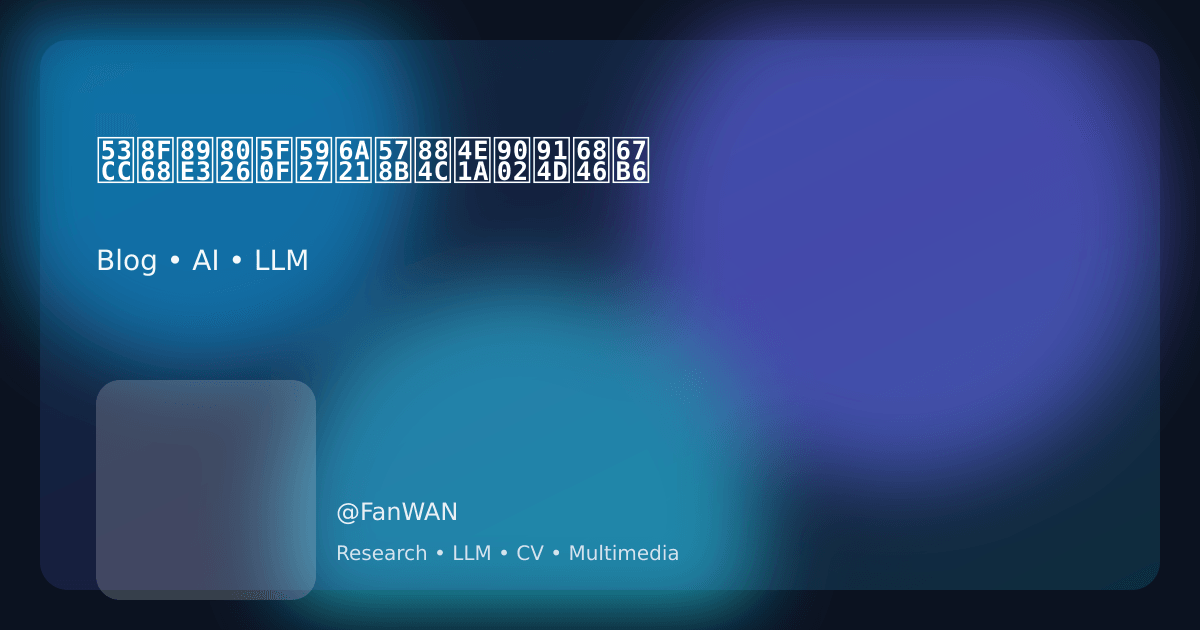
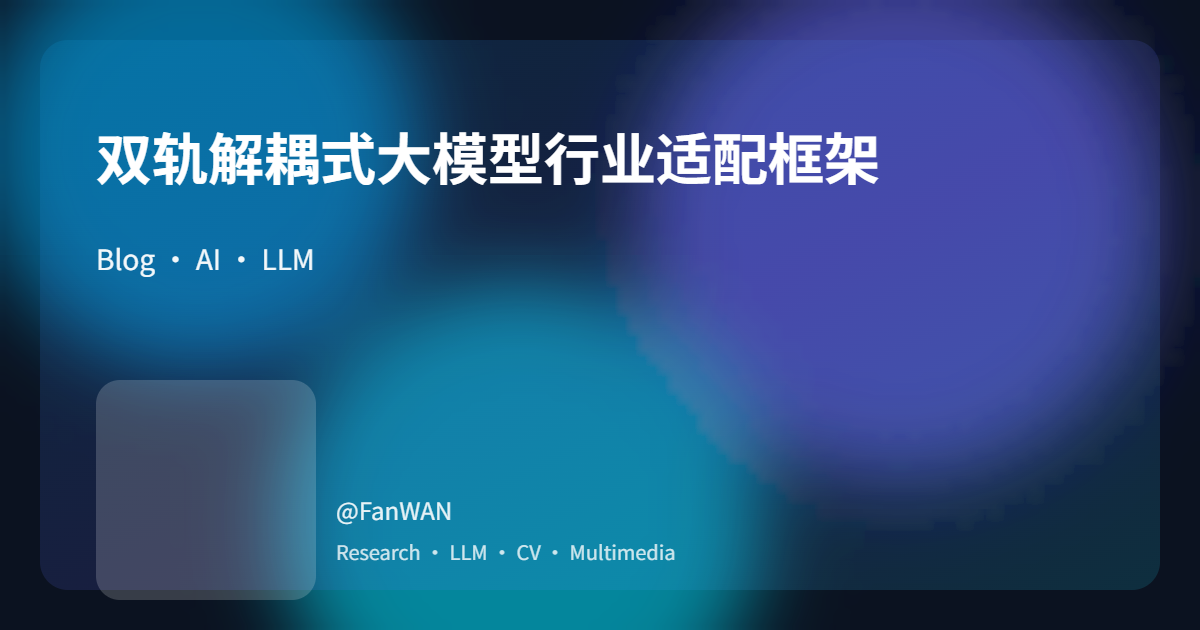
og: prefer PNG covers; add generated DTDA-zh.png; fix rasterize script (puppeteer fallback & windows path)

diff --git a/blog/DTDA.html b/blog/DTDA.html
@@ -16,17 +16,17 @@
   <meta property="og:title" content="双轨解耦式大模型行业适配框架">
   <meta property="og:description" content="聚焦大模型在高合规行业的适配问题，提出 “双轨解耦式行业适配” 框架。">
   <meta property="og:url" content="https://fanwan-ai.github.io/blog/DTDA.html">
-  <meta property="og:image" content="https://fanwan-ai.github.io/assets/blog/DTDA-zh.svg">
+  <meta property="og:image" content="https://fanwan-ai.github.io/assets/blog/DTDA-zh.png">
   <meta property="og:image:width" content="1200">
   <meta property="og:image:height" content="630">
-  <meta property="og:image:secure_url" content="https://fanwan-ai.github.io/assets/blog/DTDA-zh.svg">
-  <meta property="og:image:type" content="image/svg+xml">
-  <link rel="image_src" href="https://fanwan-ai.github.io/assets/blog/DTDA-zh.svg">
-  <meta itemprop="image" content="https://fanwan-ai.github.io/assets/blog/DTDA-zh.svg">
+  <meta property="og:image:secure_url" content="https://fanwan-ai.github.io/assets/blog/DTDA-zh.png">
+  <meta property="og:image:type" content="image/png">
+  <link rel="image_src" href="https://fanwan-ai.github.io/assets/blog/DTDA-zh.png">
+  <meta itemprop="image" content="https://fanwan-ai.github.io/assets/blog/DTDA-zh.png">
   <meta name="twitter:card" content="summary_large_image">
   <meta name="twitter:title" content="双轨解耦式大模型行业适配框架">
   <meta name="twitter:description" content="聚焦大模型在高合规行业的适配问题，提出 “双轨解耦式行业适配” 框架。">
-  <meta name="twitter:image" content="https://fanwan-ai.github.io/assets/blog/DTDA-zh.svg">
+  <meta name="twitter:image" content="https://fanwan-ai.github.io/assets/blog/DTDA-zh.png">
   <meta name="theme-color" content="#0f172a">
   <link rel="icon" href="../assets/logo.svg" type="image/svg+xml">
   <script src="../lang-preload.js"></script>
